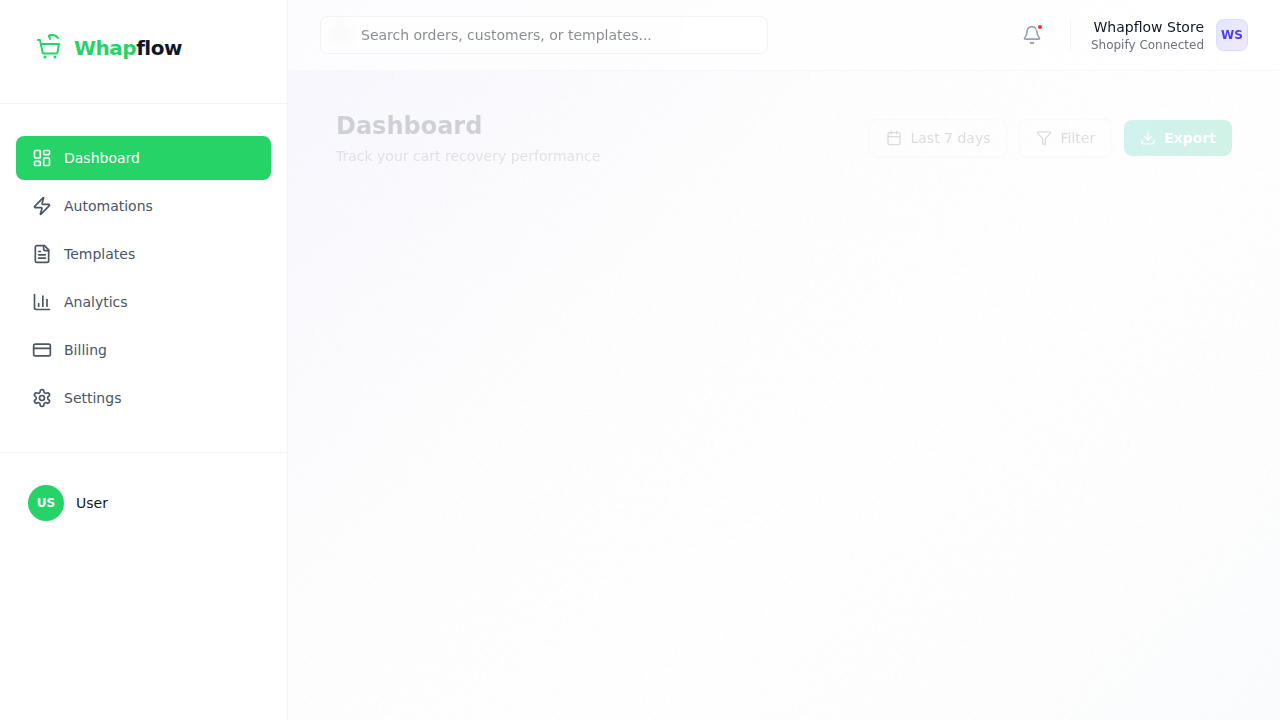
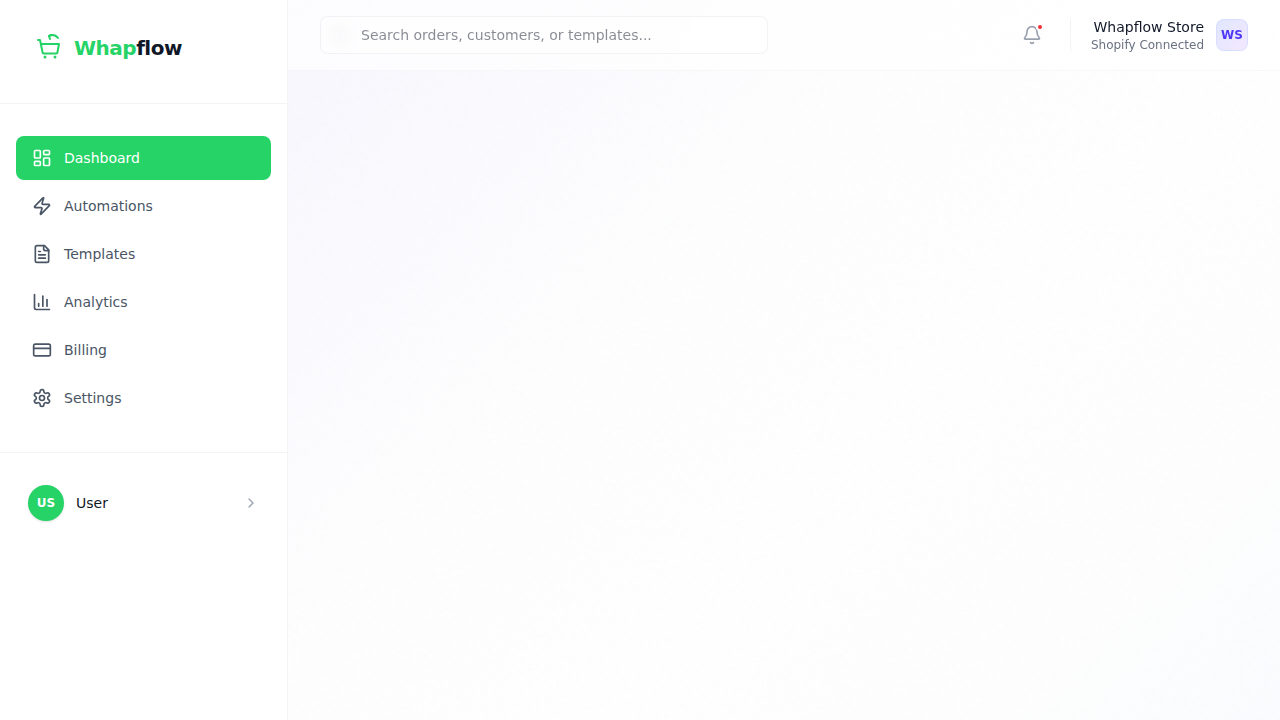
🎨 Palette: Standardize Profile Navigation Accessibility
- Convert Sidebar user profile section from a div to a semantic NavLink pointing to /settings.
- Add ChevronRight icon to indicate interactivity and provide visual affordance.
- Implement tactile feedback using active:scale-[0.98] transition.
- Add aria-label="User settings" for improved screen reader accessibility.
- Add hover animations using group/profile for subtle visual delight.

Changed region(s): [[0.875, 0.1528, 0.9688, 0.2139], [0.25, 0.1528, 0.375, 0.1833]]

diff --git a/src/components/Sidebar.tsx b/src/components/Sidebar.tsx
@@ -8,7 +8,8 @@ import {
   Settings,
   MessageCircle,
   Menu,
-  X
+  X,
+  ChevronRight
 } from 'lucide-react';
 import { useState } from 'react';
 import { WhapflowLogo } from './WhapflowLogo';
@@ -123,15 +124,20 @@ export function Sidebar() {
                 </div>
              </div>
           ) : (
-            <div className="flex items-center gap-3 px-3 py-2 rounded-lg hover:bg-gray-50 cursor-pointer transition-colors">
-              <div className="w-9 h-9 bg-[#25D366] rounded-full flex items-center justify-center flex-shrink-0">
+            <NavLink
+              to="/settings"
+              aria-label="User settings"
+              className="flex items-center gap-3 px-3 py-2 rounded-lg hover:bg-gray-50 transition-all duration-200 active:scale-[0.98] group/profile"
+            >
+              <div className="w-9 h-9 bg-[#25D366] rounded-full flex items-center justify-center flex-shrink-0 shadow-sm group-hover/profile:shadow transition-all">
                 <span className="text-white font-semibold text-xs">{initials}</span>
               </div>
               <div className="flex-1 min-w-0">
                 <p className="text-sm font-medium text-gray-900 truncate">{displayName}</p>
                 <p className="text-xs text-gray-500 truncate">{displayEmail}</p>
               </div>
-            </div>
+              <ChevronRight className="w-4 h-4 text-gray-400 group-hover/profile:text-gray-600 group-hover/profile:translate-x-0.5 transition-all" />
+            </NavLink>
           )}
         </div>
       </aside>
